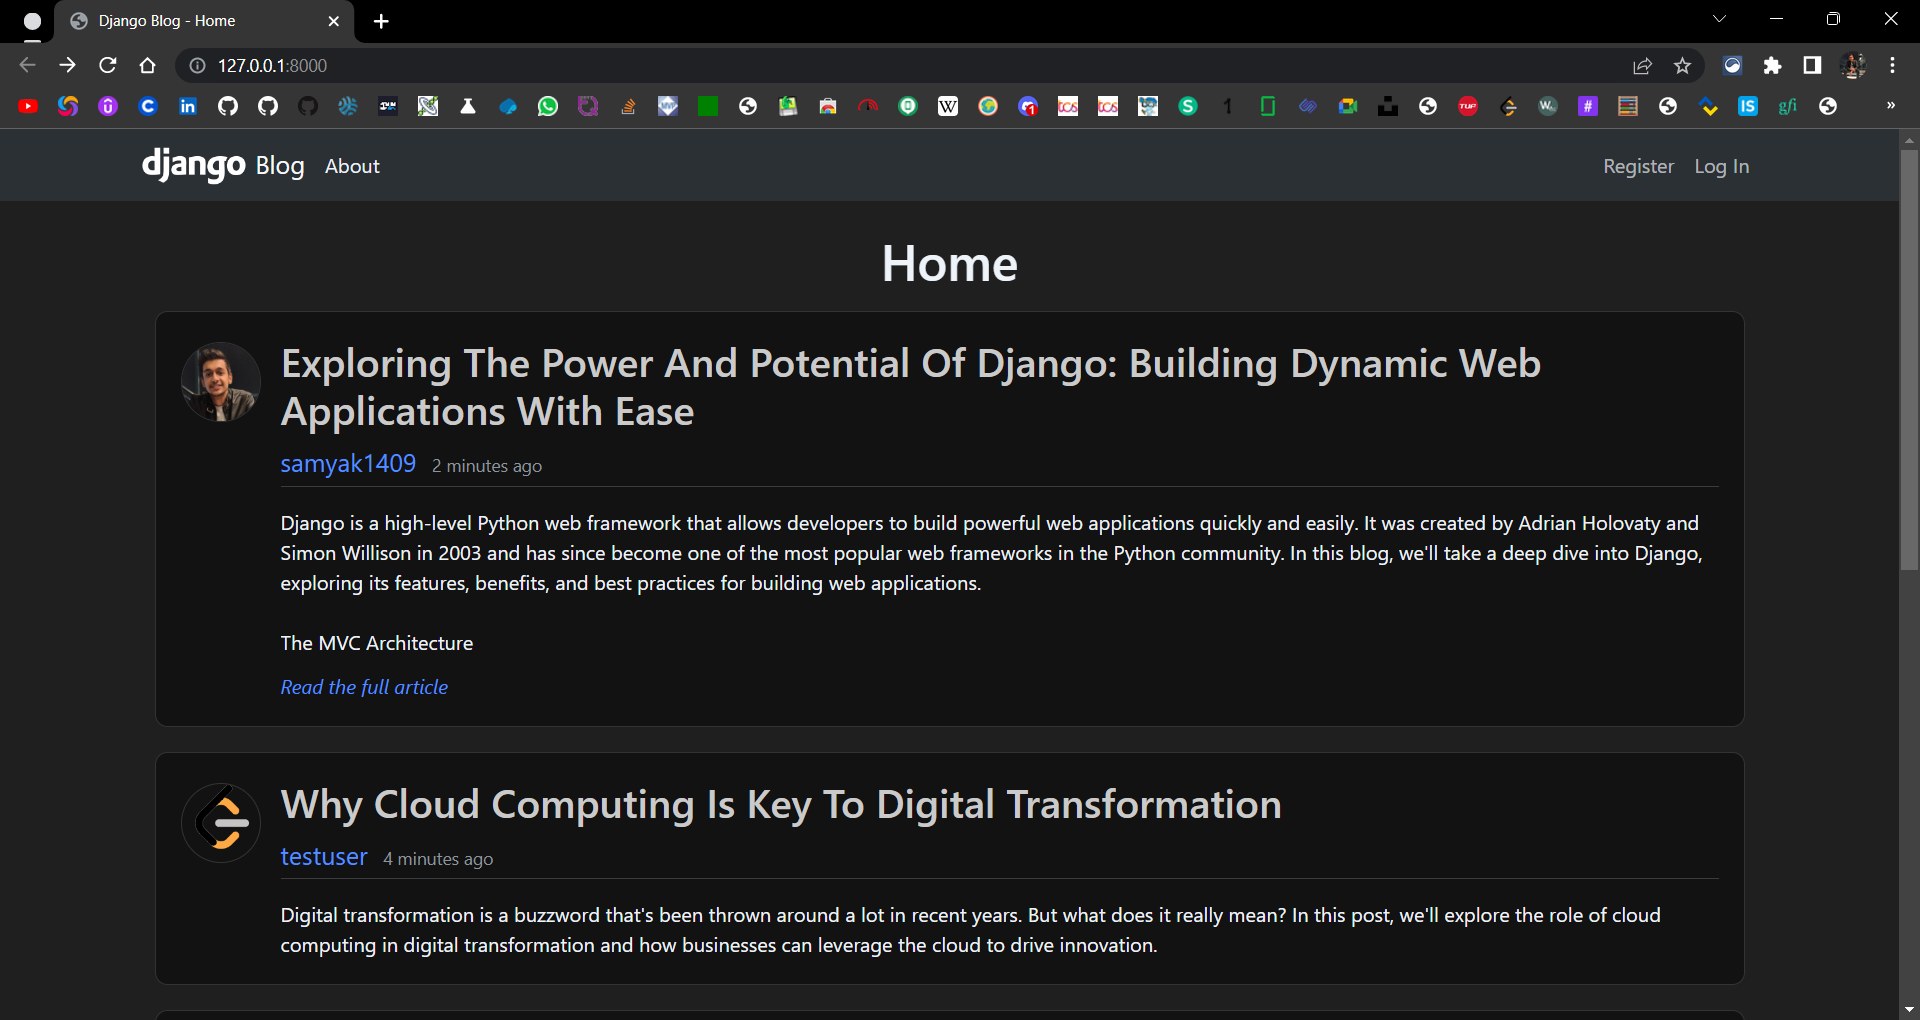
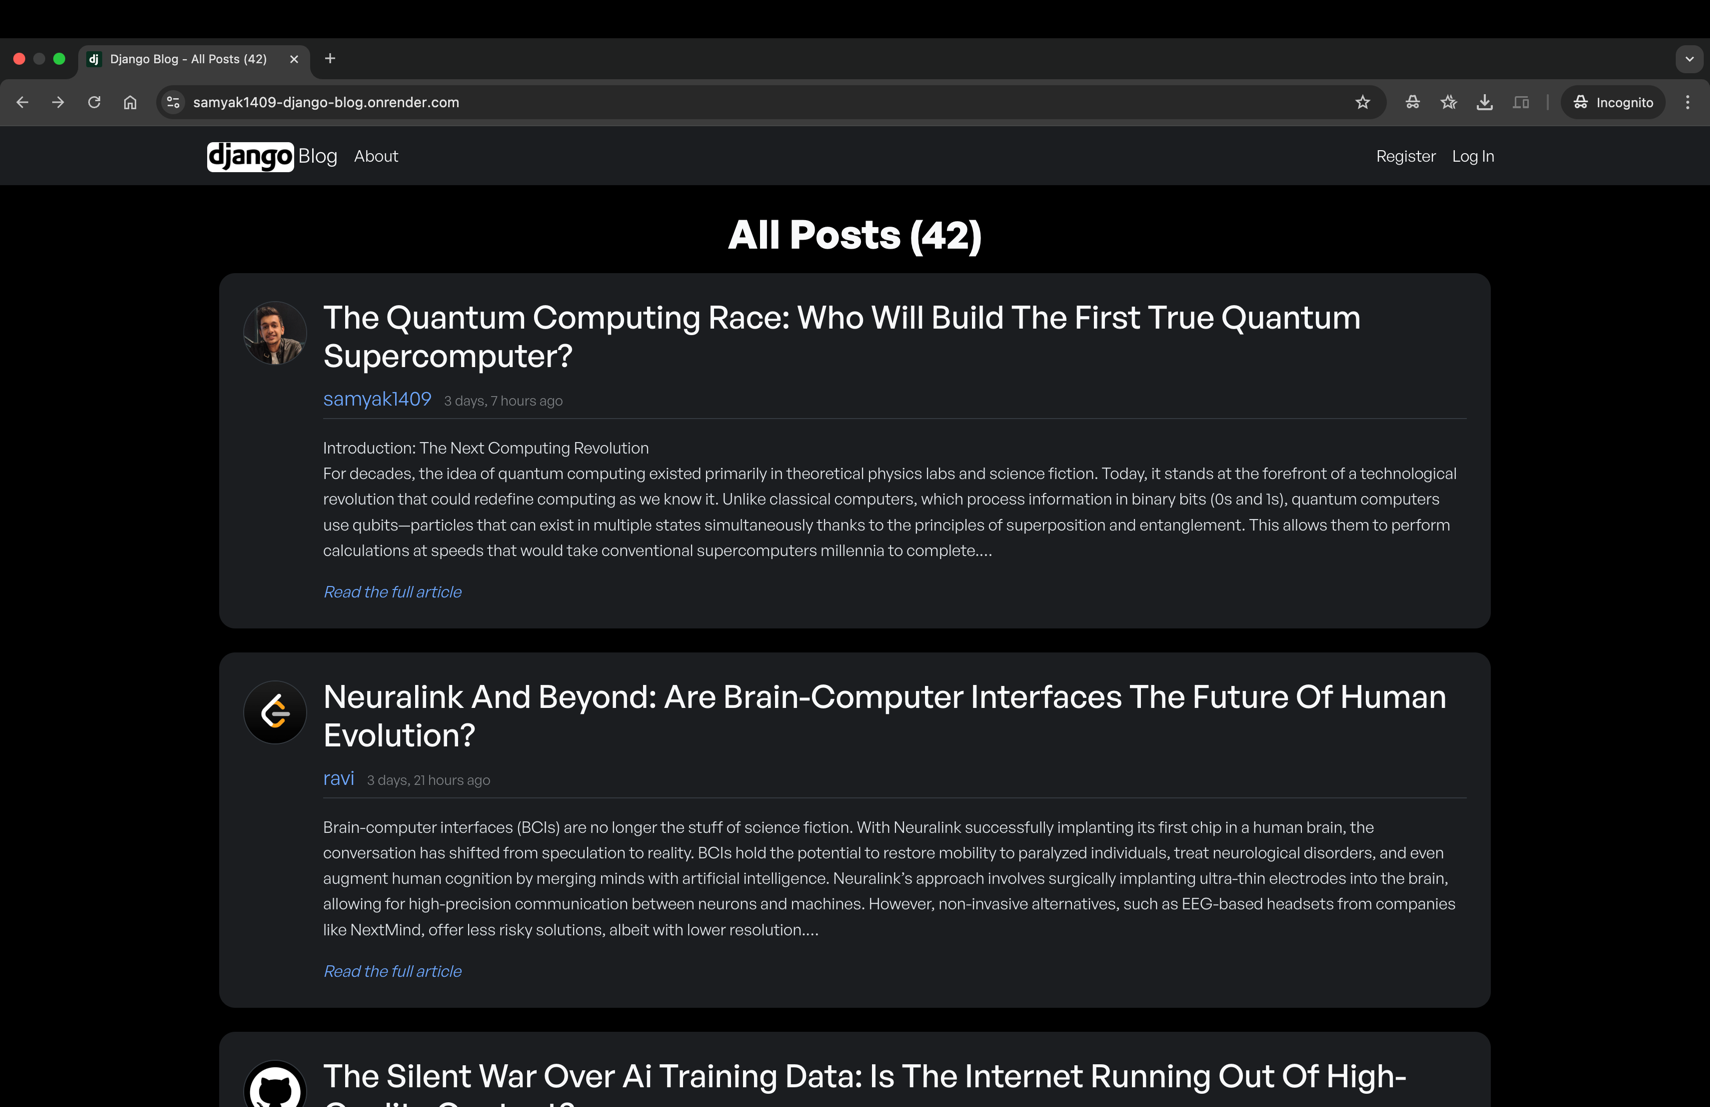
update screenshots and add deploy notes to readme

diff --git a/django_project/django_project/settings.py b/django_project/django_project/settings.py
@@ -183,6 +183,7 @@ EMAIL_HOST_USER = os.environ.get('EMAIL_USER')  # my mail id from which password
 EMAIL_HOST_PASSWORD = os.environ.get('EMAIL_PASS')  # https://myaccount.google.com/apppasswords
 
 
+# DO NOT remove this because local server doesn't support HTTPS.
 if not DEBUG:
     # Production security settings we should ideally enable:
     SECURE_HSTS_SECONDS = 31536000

diff --git a/django_project/django_project/urls.py b/django_project/django_project/urls.py
@@ -69,6 +69,7 @@ urlpatterns = [
 # https://github.com/samyak1409/django#4-now-the-main-part-showing-profile-pic-on-the-profile-page:
 # urlpatterns += static(settings.MEDIA_URL, document_root=settings.MEDIA_ROOT)
 # Note that it will only be added in the DEBUG mode (see the source code of `static`).
+
 # Not recommended:
 import re
 from django.urls import re_path

diff --git a/README.md b/README.md
@@ -1,6 +1,6 @@
 # Django Blog
 
-[![Live Site](https://img.shields.io/badge/Live%20Site-Click%20Here%20🚀-brightgreen?style=for-the-badge)](https://samyak1409-django-blog.onrender.com)
+[![Live Site](https://img.shields.io/badge/Live%20Site-🚀%20Click%20Here-brightgreen?style=for-the-badge)](https://samyak1409-django-blog.onrender.com)
 
 ✅ Developed a full-stack blog website using Django, with user registration, authentication, profile customization, [CRUD](https://en.wikipedia.org/wiki/Create,_read,_update_and_delete) operations on posts, email-based password reset, and auto square-cropping of profile images.
 
@@ -46,7 +46,7 @@
 ### Users can request Password Reset link to their email if they can't remember the password
 ![](Project%20Screenshots/11.%20PassReset.png)
 
-### A RESTful public API is also available @[/api1](http://localhost:8000/api1):
+### A RESTful public API is also available @[/api1](https://samyak1409-django-blog.onrender.com/api1):
 ![](Project%20Screenshots/12.%20RESTful%20API.png)
 <details>
 <summary>Click here to see individual endpoints.</summary> <br>
@@ -182,7 +182,7 @@ Learnt from: [Corey Schafer](https://youtube.com/playlist?list=PL-osiE80TeTtoQCK
 - ```bash
   python manage.py createsuperuser
   ```
-  *Now, we can access the [admin page](http://localhost:8000/admin), and modify any data directly from there.*
+  *Now, we can access the [admin page](http://127.0.0.1:8000/admin), and modify any data directly from there.*
 
 
 ### 5. [Python Django Tutorial: Full-Featured Web App Part 5 - Database and Migrations](https://www.youtube.com/watch?v=aHC3uTkT9r8&list=PL-osiE80TeTtoQCKZ03TU5fNfx2UY6U4p&index=5&ab_channel=CoreySchafer)
@@ -435,7 +435,7 @@ There are many class-based views (see `django.views.generic.__all__`), here we'l
 
 ## Additions I've Made (Major Ones)
 
-- Added a [REST](https://en.wikipedia.org/wiki/REST)ful public [API](https://en.wikipedia.org/wiki/Web_API) (@[/api1](http://localhost:8000/api1)) using the [Django REST framework](https://www.django-rest-framework.org), which can be used to fetch posts from this website. (Tutorial (Basics): [Python Django 7 Hour Course/Django REST Framework](https://youtu.be/PtQiiknWUcI?t=21180))
+- Added a [REST](https://en.wikipedia.org/wiki/REST)ful public [API](https://en.wikipedia.org/wiki/Web_API) (@[/api1](https://samyak1409-django-blog.onrender.com/api1)) using the [Django REST framework](https://www.django-rest-framework.org), which can be used to fetch posts from this website. (Tutorial (Basics): [Python Django 7 Hour Course/Django REST Framework](https://youtu.be/PtQiiknWUcI?t=21180))
 
 - Gave the website [my own look](#Screenshots) using [Bootstrap](https://getbootstrap.com/docs); didn't copy [Corey's template](Project%20Screenshots/00.%20Corey's.png).
 
@@ -462,3 +462,116 @@ There are many class-based views (see `django.views.generic.__all__`), here we'l
 
 - Show email & username when saying link sent, show username & email when setting new pass.
 -->
+
+
+## Notes: Deploying a Full-Stack Django Web App on Render
+
+### 🔧 Setup on [Render Dashboard](https://dashboard.render.com/web/new)
+
+1. **Name**:  
+   Give your Web Service a *unique* name (e.g., `samyak1409-django-blog`).  
+   > ⚠ If left blank, Render will append random characters to the name, which is undesirable.
+
+2. **Root Directory**:  
+   If your Django project is inside a subdirectory, provide that directory name here. It doesn’t have to be at the root of the repo.
+
+3. **Build Command**:
+   ```bash
+   pip install -r requirements.txt
+   ```
+
+4. **Start Command**:
+   ```bash
+   gunicorn project_name.wsgi
+   # Example:
+   gunicorn django_project.wsgi
+   ```
+   Ensure your `requirements.txt` includes:
+   ```
+   gunicorn
+   ```
+
+5. **Environment Variables**:  
+   Add all required variables (e.g., `SECRET_KEY`, `DEBUG`, `ALLOWED_HOSTS`, DB creds, etc.).
+
+---
+
+### ⚠ Problem with Free Instances on Render
+
+> *Free instances spin down after periods of inactivity. They do not support SSH access, scaling, one-off jobs, or **PERSISTENT DISKS**. Select any paid instance type to enable these features.*  
+> — [Render Docs](https://render.com)
+
+---
+
+### ✅ Solution
+
+#### 📦 For Static Files
+
+Your `requirements.txt` should include:
+```
+whitenoise
+```
+
+In `settings.py`:
+
+```python
+# Static files (CSS, JavaScript, Images)
+STATIC_URL = '/static/'
+STATIC_ROOT = os.path.join(BASE_DIR, 'staticfiles')  # location where collectstatic gathers all static content
+
+# WhiteNoise Middleware for serving static files
+MIDDLEWARE.insert(1, 'whitenoise.middleware.WhiteNoiseMiddleware')  # right after SecurityMiddleware
+
+# Compressed storage for caching and versioning
+STATICFILES_STORAGE = 'whitenoise.storage.CompressedManifestStaticFilesStorage'
+```
+
+Run:
+```bash
+python manage.py collectstatic
+```
+
+**How it works**:  
+WhiteNoise serves static files from the `STATIC_ROOT` folder. These files are included in the deployment slug (i.e., the Render package).  
+Even if the instance restarts, static files are **not lost** because they’re embedded in the deployment, **not** stored on the ephemeral disk. ✅
+
+---
+
+#### 🖼 For Media Files
+
+> ⚠ This is **not recommended** for production. It's a temporary workaround.
+
+In `urls.py`, use:
+
+```python
+import re
+from django.urls import re_path
+from django.views.static import serve
+
+urlpatterns += [
+    re_path(
+        r"^%s(?P<path>.*)$" % re.escape(settings.MEDIA_URL.lstrip("/")),
+        serve,
+        kwargs={"document_root": settings.MEDIA_ROOT},
+    ),
+]
+```
+
+Instead of:
+
+```python
+urlpatterns += static(settings.MEDIA_URL, document_root=settings.MEDIA_ROOT)
+# Note that it will only be added in DEBUG mode (see the source code of `static`).
+```
+
+> 🔍 A free, reliable media hosting service should be integrated in the future.
+
+---
+
+#### 🗄 For Database (SQLite on Free Tier)
+
+- The `db.sqlite3` file from your GitHub repo is used by Render on deploy.
+- Any changes made to the database on production **do not persist**.
+- After ~15 minutes of inactivity, the site spins down and the DB resets to its state from the last deployment.
+
+> 🔍 A free cloud-based database service (like Supabase, Neon, etc.) should be integrated in the future.
